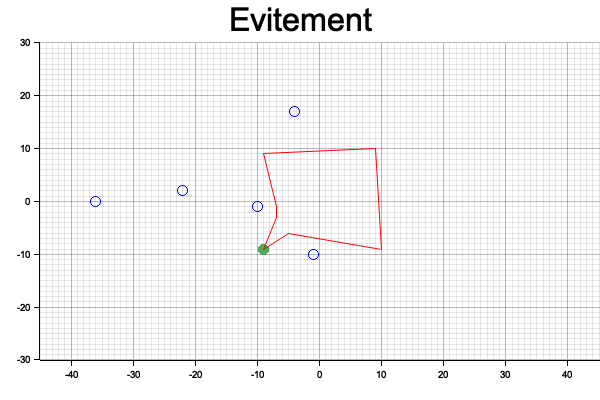
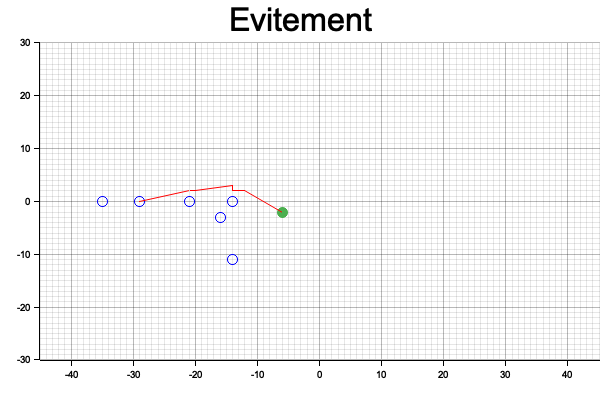
feat: AvoidanceMode

diff --git a/src/world/robot.rs b/src/world/robot.rs
@@ -13,11 +13,22 @@ const RRT_MAX_TRIES: usize = 10_000;
 const GOTO_SPEED: f32 = 1.5;
 const GOTO_ANGULAR_SPEED: f32 = 1.5;
 
+#[derive(Clone, Copy, PartialEq, Eq, Debug)]
+pub enum AvoidanceMode {
+    /// can collide with everything
+    None,
+    /// can collide with ball, can't collide with robots
+    AvoidRobots,
+    /// can't collide
+    AvoidRobotsAndBall,
+}
+
 #[derive(Clone)]
 pub struct Robot {
     id: RobotId,
     pos: Arc<Mutex<Point2>>,
     orientation: Arc<Mutex<f32>>,
+    has_ball: Arc<Mutex<bool>>,
     // control stuff
     target_vel: Arc<Mutex<Vec2>>,
     target_angular_vel: Arc<Mutex<f32>>,
@@ -37,6 +48,7 @@ impl Robot {
             id,
             pos: Arc::new(Mutex::new(pos)),
             orientation: Arc::new(Mutex::new(orientation)),
+            has_ball: Arc::new(Mutex::new(false)),
             target_vel: Arc::new(Mutex::new(Vec2::zero())),
             target_angular_vel: Arc::new(Mutex::new(0.)),
             should_dribble: Arc::new(Mutex::new(false)),
@@ -59,6 +71,15 @@ impl Robot {
         let ret = *should_kick;
         *should_kick = false;
         ret
+    }
+
+    pub fn has_ball(&self) -> bool {
+        *self.has_ball.lock().unwrap()
+    }
+
+    pub fn set_has_ball(&mut self, has_ball: bool) {
+        let mut _has_ball = self.has_ball.lock().unwrap();
+        *_has_ball = has_ball;
     }
 
     pub fn enable_dribbler(&self) {
@@ -108,8 +129,9 @@ impl Robot {
     }
 
     // destination is in world space
-    pub async fn goto<T: Trackable>(&self, destination: &T, angle: Option<f32>) {
+    pub async fn goto<T: Trackable>(&self, destination: &T, angle: Option<f32>) -> Vec<Point2> {
         let mut cur_pos = self.get_pos();
+        let mut followed_path = vec![cur_pos];
         let mut to_pos = destination.get_pos() - cur_pos;
 
         let mut interval = tokio::time::interval(CONTROL_PERIOD);
@@ -134,7 +156,9 @@ impl Robot {
             interval.tick().await;
             cur_pos = self.get_pos(); // compute diff
             to_pos = destination.get_pos() - cur_pos;
+            followed_path.push(cur_pos);
         }
+        followed_path
     }
 
     pub fn debug_tp<T: Trackable>(&self, destination: &T, angle: Option<f32>) {
@@ -156,22 +180,36 @@ impl Robot {
         *_orientation = orientation;
     }
 
+    fn is_free(&self, p: Point2, world: &Arc<Mutex<World>>, avoidance_mode: AvoidanceMode) -> bool {
+        if let AvoidanceMode::None = avoidance_mode {
+            return true;
+        }
+
+        let is_colliding_with_robot = !world
+            .lock()
+            .unwrap()
+            .team
+            .values()
+            .filter(|r| r.get_id() != self.get_id()) // can't collide with myself
+            .any(|r| p.distance_to(r) < 0.3); // a robot is 10cm radius => 0.3 leaves 10cm between robots
+        if let AvoidanceMode::AvoidRobots = avoidance_mode {
+            return is_colliding_with_robot;
+        }
+
+        return is_colliding_with_robot && !(p.distance_to(&world.lock().unwrap().ball) < 0.1);
+    }
+
     pub async fn goto_rrt<T: Trackable>(
         &self,
         world: &Arc<Mutex<World>>,
         destination: &T,
         angle: Option<f32>,
+        avoidance_mode: AvoidanceMode,
     ) -> Result<Vec<Point2>, String> {
-        let is_free = |p: &[f32]| {
-            let p = Point2::from_vec(p);
-            !world
-                .lock()
-                .unwrap()
-                .team
-                .values()
-                .filter(|r| r.get_id() != self.get_id()) // can't collide with myself
-                .any(|r| p.distance_to(r) < 0.3) // a robot is 10cm radius => 0.3 leaves 10cm between robots
-        };
+        // fallback to Robot::goto
+        if let AvoidanceMode::None = avoidance_mode {
+            return Ok(self.goto(destination, angle).await);
+        }
 
         let mut followed_path = vec![self.get_pos()];
         while self.get_pos().distance_to(&destination.get_pos()) > IS_CLOSE_EPSILON {
@@ -184,18 +222,23 @@ impl Robot {
             let mut path = rrt::dual_rrt_connect(
                 &[start.x, start.y],
                 &[goal.x, goal.y],
-                is_free,
+                |p| self.is_free(Point2::from_vec(p), world, avoidance_mode),
                 || rect.sample_inside().to_vec(),
                 0.1,
                 RRT_MAX_TRIES,
             )?;
-            rrt::smooth_path(&mut path, is_free, 0.05, 100);
+            rrt::smooth_path(
+                &mut path,
+                |p| self.is_free(Point2::from_vec(p), world, avoidance_mode),
+                0.05,
+                100,
+            );
             let next_point = path
                 .into_iter()
                 .nth(1)
                 .ok_or(format!("Couldn't find a path to {:?}", goal))?;
             println!(
-                "[DEBUG - robot {} - goto_rrt] took {}ms to compute path",
+                "[TRACE - robot {} - goto_rrt] took {}ms to compute path",
                 self.get_id(),
                 start_time.elapsed().as_millis()
             );

diff --git a/src/main.rs b/src/main.rs
@@ -4,7 +4,7 @@ use crabe_async::{
     league_protocols::vision_packet::SslWrapperPacket,
     math::{Point2, Rect, Vec2},
     vision::Vision,
-    world::{Ball, Robot, TeamColor, Trackable, World},
+    world::{AvoidanceMode, Ball, Robot, TeamColor, Trackable, World},
     CONTROL_PERIOD,
 };
 use plotters::{
@@ -39,8 +39,16 @@ async fn control_loop<T, E: Debug, C: RobotController<T, E> + Send + 'static>(
         let pending_packets_iterator = vision.take_pending_packets().await;
         {
             let mut w = world.lock().unwrap();
+            let ball = w.ball.clone();
             for packet in pending_packets_iterator {
                 if let Some(detection) = packet.detection {
+                    if let Some(ball_detection) = detection.balls.get(0) {
+                        ball.set_pos(Point2::new(
+                            ball_detection.x / 1000.,
+                            ball_detection.y / 1000.,
+                        ));
+                    }
+
                     // TODO: handle ennemies
                     let (allies, _ennemies) = match side {
                         TeamColor::Blue => (detection.robots_blue, detection.robots_yellow),
@@ -51,18 +59,18 @@ async fn control_loop<T, E: Debug, C: RobotController<T, E> + Send + 'static>(
                         let detected_pos =
                             Point2::new(ally_detection.x / 1000., ally_detection.y / 1000.);
                         let detected_orientation = ally_detection.orientation();
-                        if let Some(r) = w.team.get_mut(&rid) {
-                            r.set_orientation(detected_orientation);
-                            r.set_pos(detected_pos);
-                        } else {
+                        if w.team.get_mut(&rid).is_none() {
                             println!("[DEBUG] ally {} was added to team!", rid);
                             let r = Robot::new(rid, detected_pos, detected_orientation);
                             w.team.insert(rid, r);
                         }
-                    }
-                    if let Some(ball_detection) = detection.balls.get(0) {
-                        w.ball
-                            .set_pos(Point2::new(ball_detection.x, ball_detection.y));
+                        // SAFETY: if the robot wasn't present, we inserted it & we hold the lock. Therefore it MUST be in the map
+                        let r = w.team.get_mut(&rid).unwrap();
+                        r.set_orientation(detected_orientation);
+                        r.set_pos(detected_pos);
+                        let r_to_ball = r.to(&ball);
+                        let has_ball = r_to_ball.angle().abs() < 20. && r_to_ball.norm() < 0.02;
+                        r.set_has_ball(has_ball);
                     }
                 }
 
@@ -164,7 +172,7 @@ async fn main() {
     let controller = SimRobotController::new(color).await;
     let (control_loop_thread_stop_notifier, control_loop_thread_handle) =
         launch_control_thread(world.clone(), "224.5.23.2", None, false, color, controller);
-    sleep(CONTROL_PERIOD + Duration::from_millis(10)).await; // AWAIT ROBOTS DETECTION
+    sleep(CONTROL_PERIOD * 2).await; // AWAIT ROBOTS DETECTION
 
     // robot aliases
     // let (r0, r1, r2) = (
@@ -174,16 +182,22 @@ async fn main() {
     // );
 
     let r0 = world.lock().unwrap().team.get(&0).unwrap().clone();
+    let ball = world.lock().unwrap().ball.clone();
+
+    // shoot(&world, &r0, &ball).await;
 
     // do a square
     // r0.set_target_vel(Vec2::new(1., 0.));
     // sleep(Duration::from_secs(1)).await;
-    let path = do_square_rrt(&world, &r0)
-        .await
-        .expect("couldn't find a path");
+    // let path = do_square_rrt(&world, &r0)
+    //     .await
+    //     .expect("couldn't find a path");
 
-    // let goal = Point2::new(-3., 0.);
-    // let path = r0.goto_rrt(&world, &goal, None).await.unwrap();
+    let goal = Point2::new(-3., 0.);
+    let path = r0
+        .goto_rrt(&world, &goal, None, AvoidanceMode::AvoidRobotsAndBall)
+        .await
+        .unwrap();
 
     {
         // PLOT
@@ -258,6 +272,7 @@ async fn main() {
 
     // sleep(Duration::from_secs(4)).await;
 
+    sleep(Duration::from_millis(100)).await;
     control_loop_thread_stop_notifier.notify_one(); // ask for stop
     control_loop_thread_handle
         .await

diff --git a/src/actions/mod.rs b/src/actions/mod.rs
@@ -1,10 +1,14 @@
-use std::sync::{Arc, Mutex};
+use std::{
+    sync::{Arc, Mutex},
+    time::Duration,
+};
 
 use crate::{
-    math::{Line, Point2},
-    world::{Ball, Robot, Trackable, World},
+    math::{Line, Point2, Vec2},
+    world::{AvoidanceMode, Ball, Robot, Trackable, World},
+    CONTROL_PERIOD,
 };
-use tokio::join;
+use tokio::{join, time::sleep};
 
 pub async fn do_square(robot: &Robot) {
     robot.goto(&Point2::new(0., 1.), None).await;
@@ -19,10 +23,46 @@ pub async fn do_square_rrt(
     robot: &Robot,
 ) -> Result<Vec<Point2>, String> {
     let mut path = vec![robot.get_pos()];
-    path.extend(robot.goto_rrt(world, &Point2::new(-1., 1.), None).await?);
-    path.extend(robot.goto_rrt(world, &Point2::new(1., 1.), None).await?);
-    path.extend(robot.goto_rrt(world, &Point2::new(1., -1.), None).await?);
-    path.extend(robot.goto_rrt(world, &Point2::new(-1., -1.), None).await?);
+    path.extend(
+        robot
+            .goto_rrt(
+                world,
+                &Point2::new(-1., 1.),
+                None,
+                AvoidanceMode::AvoidRobotsAndBall,
+            )
+            .await?,
+    );
+    path.extend(
+        robot
+            .goto_rrt(
+                world,
+                &Point2::new(1., 1.),
+                None,
+                AvoidanceMode::AvoidRobotsAndBall,
+            )
+            .await?,
+    );
+    path.extend(
+        robot
+            .goto_rrt(
+                world,
+                &Point2::new(1., -1.),
+                None,
+                AvoidanceMode::AvoidRobotsAndBall,
+            )
+            .await?,
+    );
+    path.extend(
+        robot
+            .goto_rrt(
+                world,
+                &Point2::new(-1., -1.),
+                None,
+                AvoidanceMode::AvoidRobotsAndBall,
+            )
+            .await?,
+    );
     println!("reached dest!");
     Ok(path)
 }
@@ -46,9 +86,30 @@ pub async fn go_get_ball(robot: &Robot, ball: &Ball) {
     println!("got ball!");
 }
 
-pub async fn attak(robot: &Robot, ball: &Ball) {
-    robot.goto(ball, None).await;
-    // robot.kick();
+pub async fn shoot(world: &Arc<Mutex<World>>, robot: &Robot, ball: &Ball) -> Result<(), String> {
+    robot
+        .goto_rrt(
+            &world,
+            &(ball.get_pos() - Vec2::new(-0.2, 0.)),
+            Some(robot.to(ball).angle()),
+            AvoidanceMode::AvoidRobotsAndBall,
+        )
+        .await?;
+    robot
+        .goto_rrt(
+            &world,
+            &(ball.get_pos() - Vec2::new(-0.05, 0.)),
+            None,
+            AvoidanceMode::AvoidRobotsAndBall,
+        )
+        .await?;
+    while robot.has_ball() {
+        robot.kick();
+        sleep(CONTROL_PERIOD).await;
+    }
+    println!("[INFO] done shooting!");
+
+    Ok(())
 }
 
 pub async fn intercept(robot: &Robot, ball: &Ball) {

diff --git a/src/controllers/sim_controller.rs b/src/controllers/sim_controller.rs
@@ -73,6 +73,9 @@ impl RobotController<usize, SendError> for SimRobotController {
                 kick_angle,
                 dribbler_speed,
             };
+            if robot.get_id() == 0 {
+                dbg!(&robot_command);
+            }
             packet.robot_commands.push(robot_command);
         }
         self.socket.send(packet)

diff --git a/src/world/mod.rs b/src/world/mod.rs
@@ -4,7 +4,7 @@ mod trackable;
 
 // EXPORTS
 pub use ball::Ball;
-pub use robot::{Robot, RobotId};
+pub use robot::{AvoidanceMode, Robot, RobotId};
 pub use trackable::Trackable;
 
 use crate::math::Rect;
